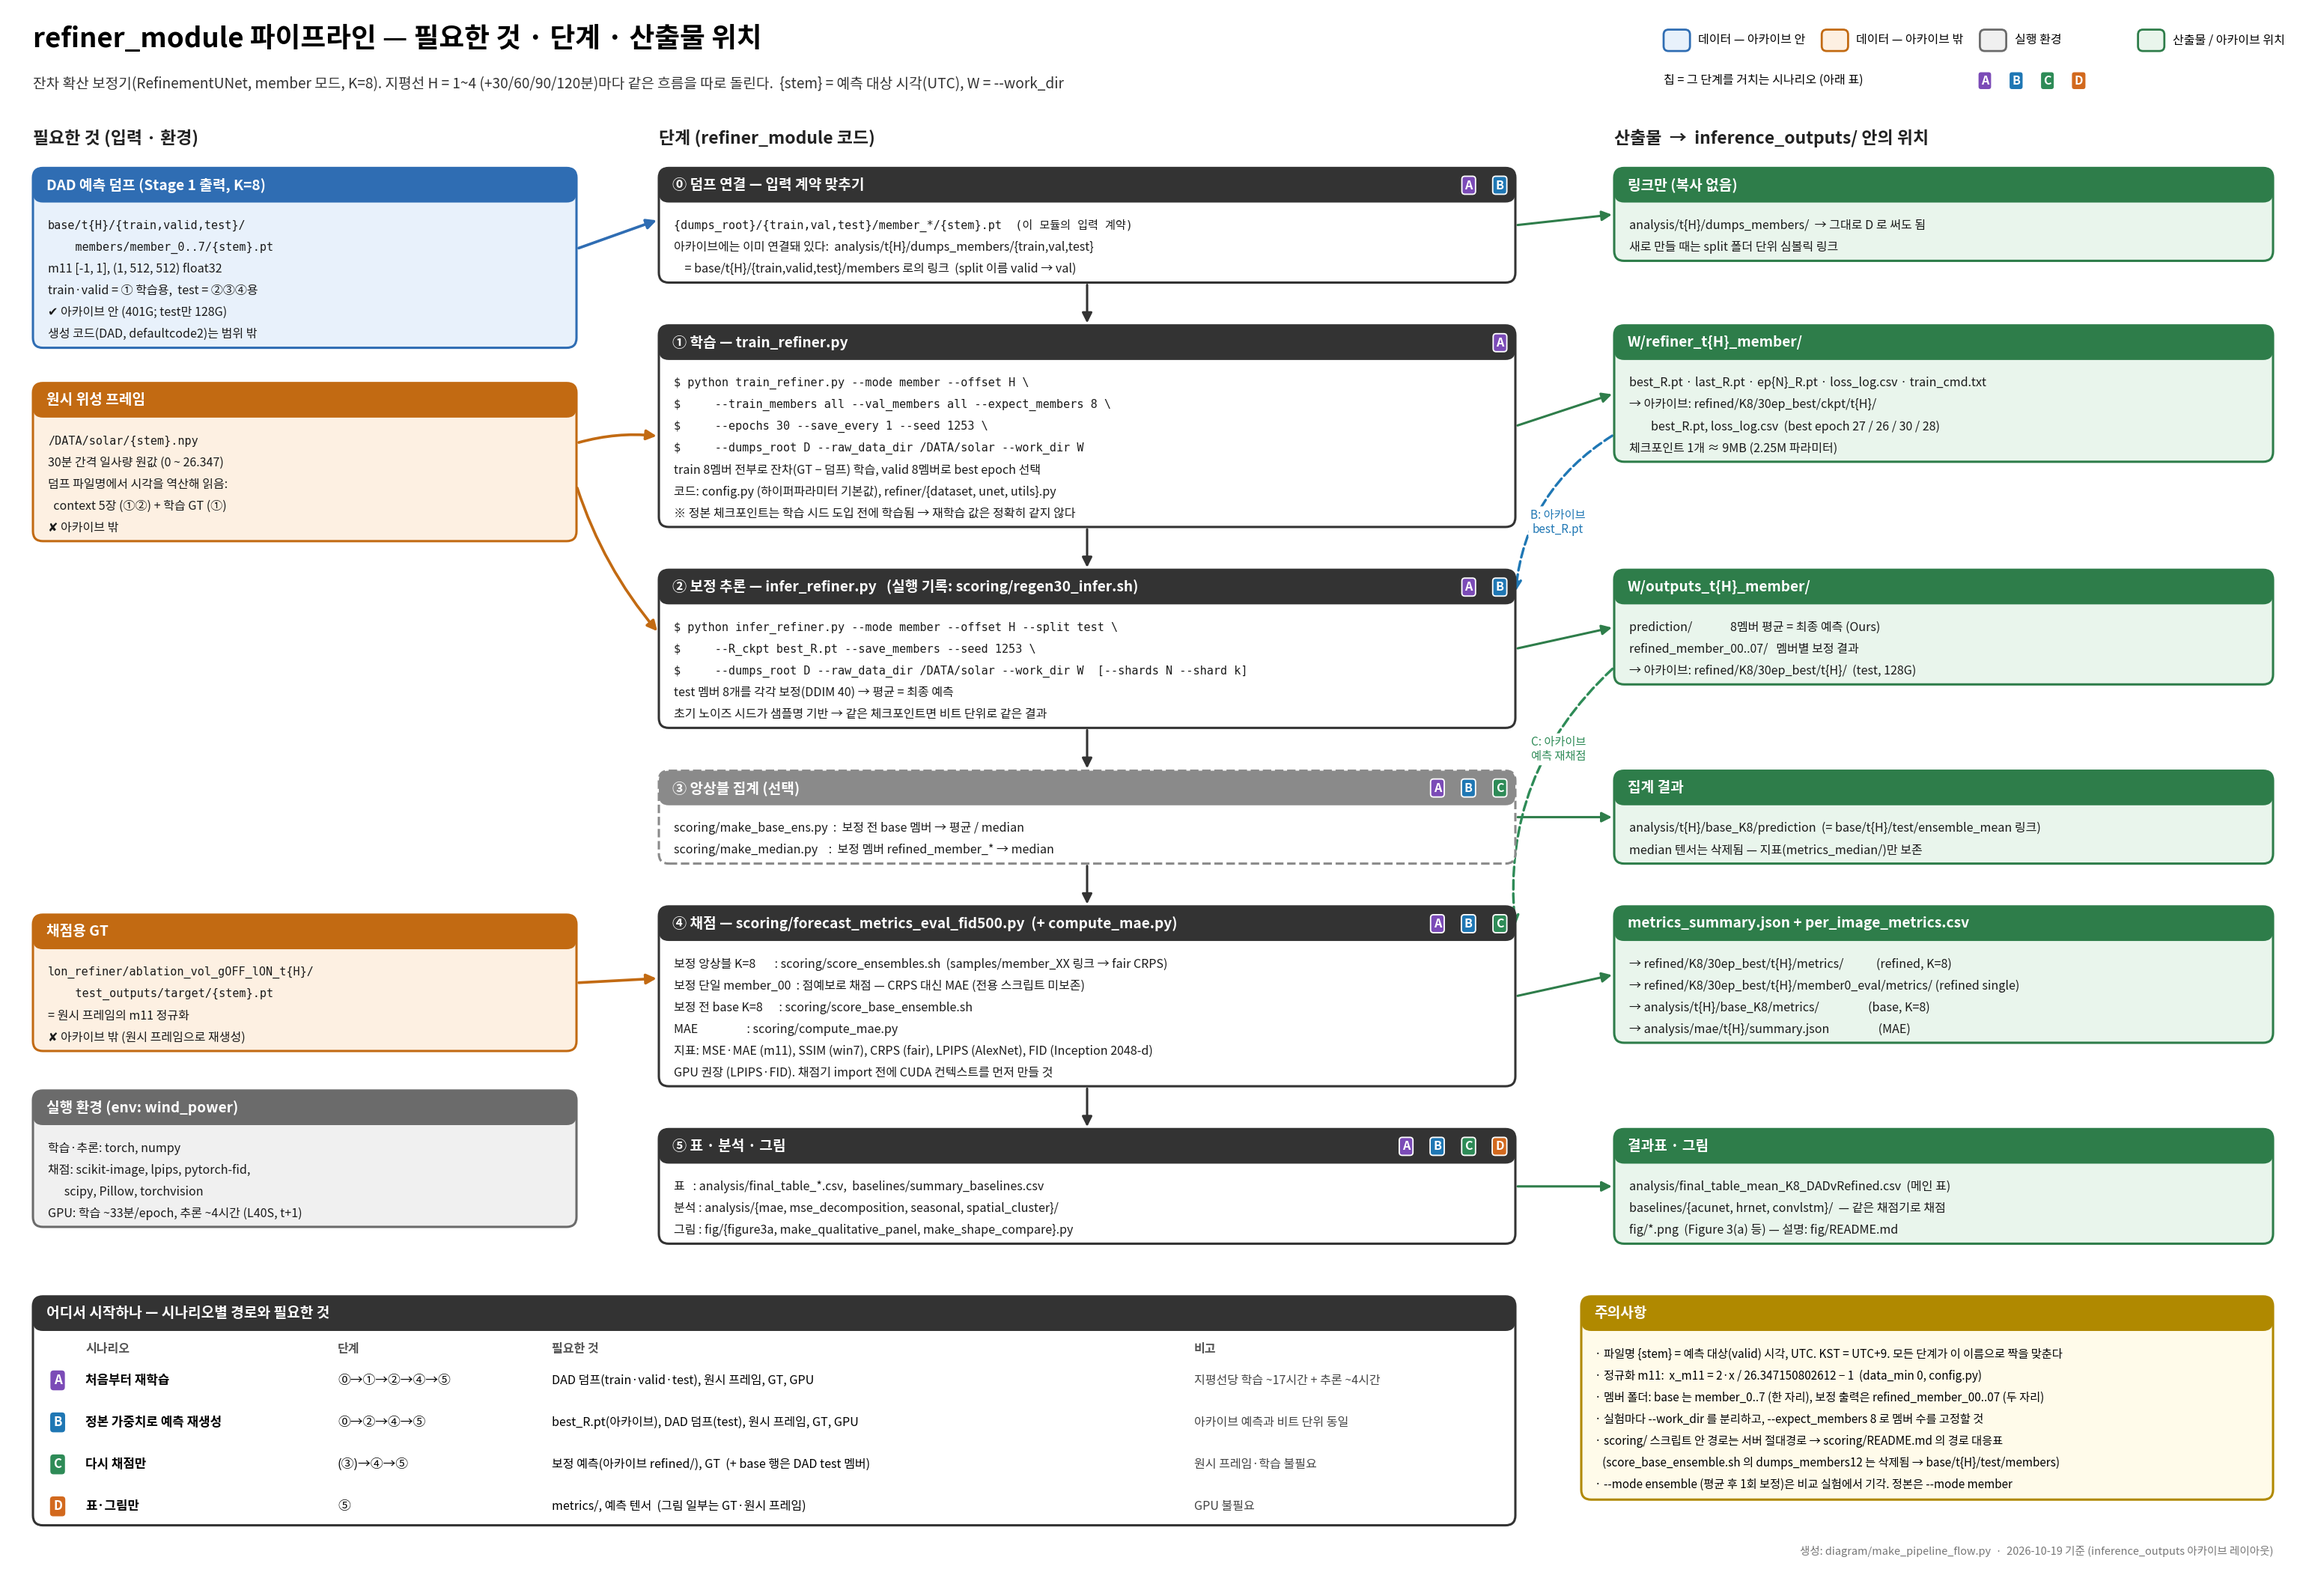
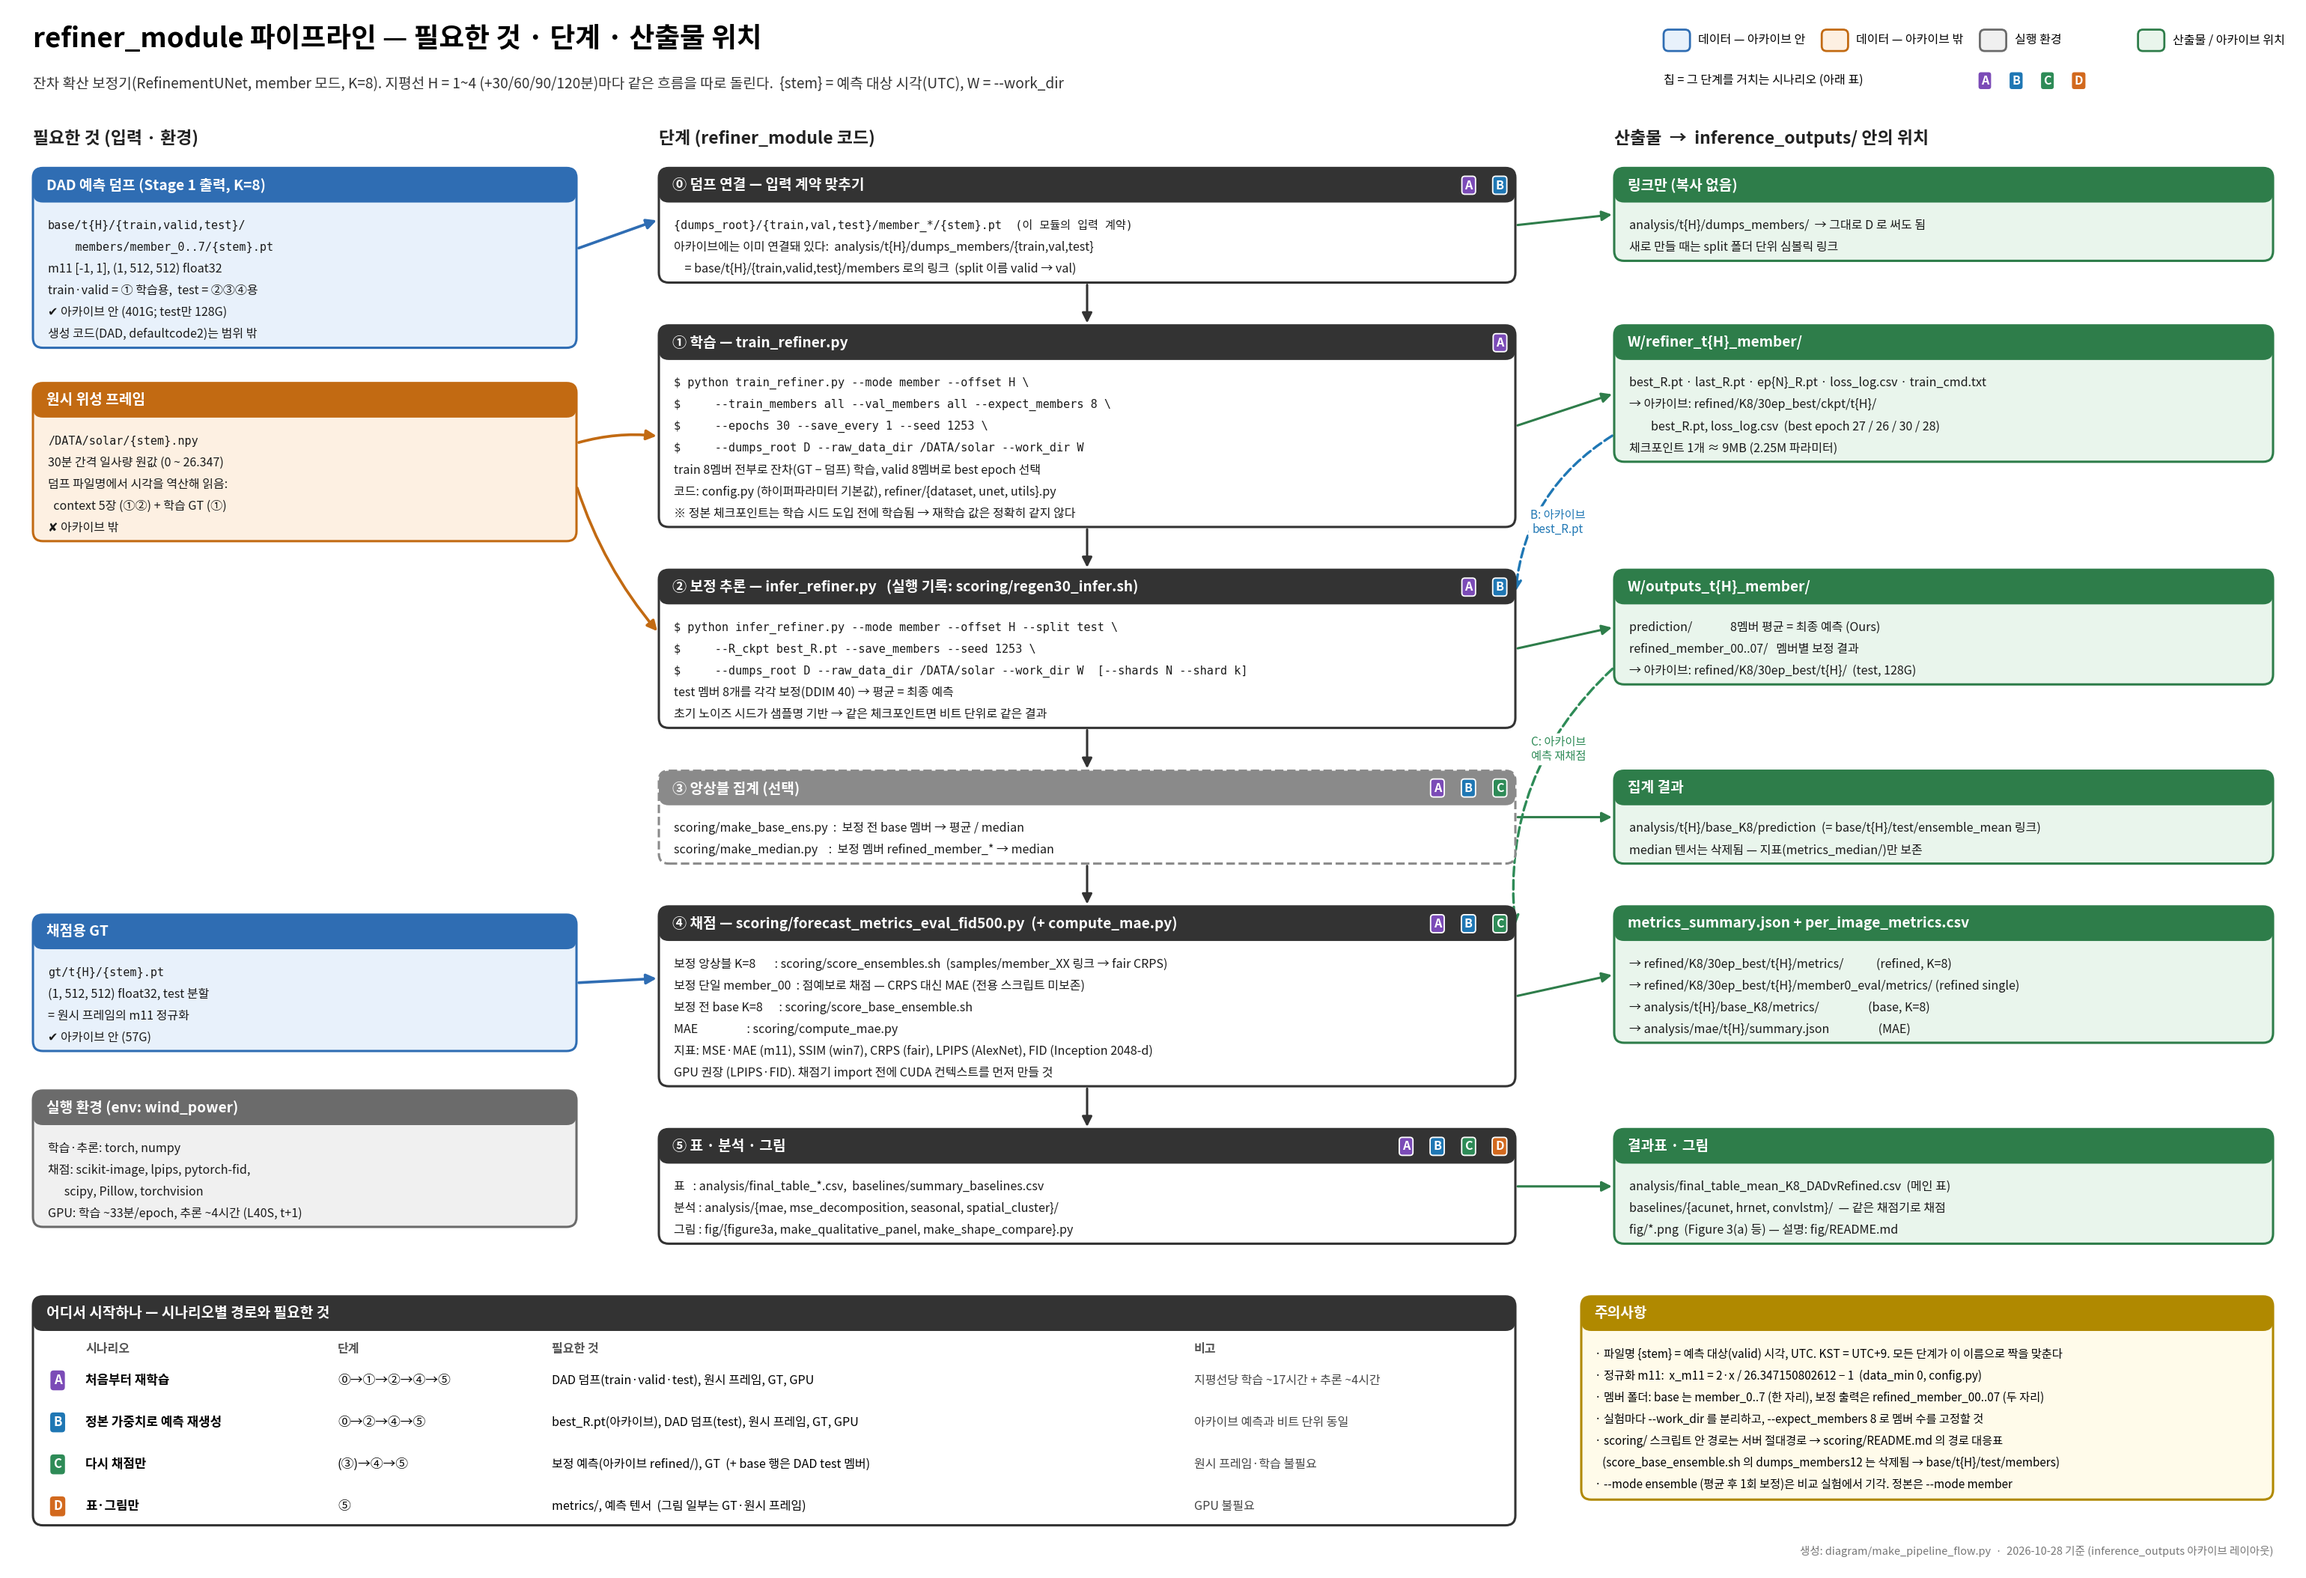
디렉토리 구조 간소화

Changed region(s): [[0.0, 0.555, 0.2805, 0.6784]]

diff --git a/diagram/make_pipeline_flow.py b/diagram/make_pipeline_flow.py
@@ -166,11 +166,11 @@ I["raw"] = box(IX, S[1][1] + S[1][3] - 3.5, IW, "원시 위성 프레임", [
     "✘ 아카이브 밖",
 ], "in_out")
 I["gt"] = box(IX, S[4][1] + S[4][3] - 0.5, IW, "채점용 GT", [
-    "`lon_refiner/ablation_vol_gOFF_lON_t{H}/",
-    "`    test_outputs/target/{stem}.pt",
+    "`gt/t{H}/{stem}.pt",
+    "(1, 512, 512) float32, test 분할",
     "= 원시 프레임의 m11 정규화",
-    "✘ 아카이브 밖 (원시 프레임으로 재생성)",
-], "in_out")
+    "✔ 아카이브 안 (57G)",
+], "in_arch")
 I["env"] = box(IX, I["gt"][1] - 2.4, IW, "실행 환경 (env: wind_power)", [
     "학습·추론: torch, numpy",
     "채점: scikit-image, lpips, pytorch-fid,",
@@ -187,7 +187,7 @@ def left(b, f=0.5):
 arrow(right(I["dump"], 0.55), left(S[0], 0.55), color=C["in_arch"][1], lw=2.4)
 arrow(right(I["raw"], 0.62), left(S[1], 0.45), color=C["in_out"][1], lw=2.4, rad=-0.1)
 arrow(right(I["raw"], 0.35), left(S[2], 0.6), color=C["in_out"][1], lw=2.4, rad=0.1)
-arrow(right(I["gt"], 0.5), left(S[4], 0.6), color=C["in_out"][1], lw=2.4)
+arrow(right(I["gt"], 0.5), left(S[4], 0.6), color=C["in_arch"][1], lw=2.4)
 
 # ── 산출물 (오른쪽) ─────────────────────────────────────────────────────────
 OX, OW = 98, 40
@@ -289,7 +289,7 @@ for i, n in enumerate(notes):
     ax.text(NX + 0.8, TT - TH - 0.75 - 1.32 * (i + 0.5), n, fontsize=10, family=SANS, va="center")
 
 foot_y = TT - th - 1.6
-ax.text(138, foot_y, "생성: diagram/make_pipeline_flow.py  ·  2026-10-19 기준 (inference_outputs 아카이브 레이아웃)",
+ax.text(138, foot_y, "생성: diagram/make_pipeline_flow.py  ·  2026-10-28 기준 (inference_outputs 아카이브 레이아웃)",
         fontsize=9.5, family=SANS, ha="right", va="center", color="#777777")
 # 아래 빈 공간 잘라내기: 1 단위 = 0.2 inch 를 유지하도록 그림 높이도 함께 줄인다
 ymin = foot_y - 1.6

diff --git a/scoring/compute_mae.py b/scoring/compute_mae.py
@@ -35,7 +35,7 @@ def main():
     a = ap.parse_args()
     H = a.H
     torch.set_num_threads(8)
-    tgt_dir = Path(f"/DATA/shinsung/lon_refiner/ablation_vol_gOFF_lON_t{H}/test_outputs/target")
+    tgt_dir = Path(f"/DATA/shinsung/inference_outputs/gt/t{H}")
     sets = sets_for(H)
     names = sorted(p.stem for p in tgt_dir.glob("*.pt"))
     for k, (d, _) in sets.items():

diff --git a/scoring/README.md b/scoring/README.md
@@ -6,6 +6,8 @@
 **2026-10-28 변경**: 서버 루트의 `/DATA/shinsung/forecast_metrics_eval_fid500.py`(이 폴더의 것과 sha256 동일)를 지웠다.
 그래서 `score_ensembles.sh`·`score_base_ensemble.sh` 의 `MET=` 한 줄만 **이 폴더의 채점기**를 가리키도록 바꿨다(그 밖의 줄과 채점기 자체는 원본 그대로).
 `compute_mae.py` 는 주석 한 줄만 바꿨다.
+같은 날 채점 GT 를 `lon_refiner/ablation_vol_gOFF_lON_tH/test_outputs/target` 에서 **`inference_outputs/gt/tH`** 로 옮겨,
+`score_ensembles.sh`·`score_base_ensemble.sh`·`regen30_infer.sh`·`compute_mae.py` 의 GT 경로 한 줄씩을 새 위치로 바꿨다.
 
 | 파일 | 원래 위치 | 역할 |
 |---|---|---|
@@ -35,7 +37,7 @@
 | `inference_outputs/analysis/tH/dumps_members` | 그대로 (→ `base/tH/{train,valid,test}/members`) |
 | `inference_outputs/analysis/tH/dumps_members12` | 삭제됨(K=12). K=8 base 멤버 = `base/tH/test/members` |
 | `inference_outputs/make_*.py` | `inference_outputs/scripts_logs/` (그리고 이 폴더) |
-| GT `lon_refiner/ablation_vol_gOFF_lON_tH/test_outputs/target` | 그대로 |
+| GT `inference_outputs/gt/tH` (옛 `lon_refiner/ablation_vol_gOFF_lON_tH/test_outputs/target`) | 그대로 (2026-10-28 이동, 스크립트도 새 경로) |
 
 ## 채점 의존성 (검증된 버전)
 
